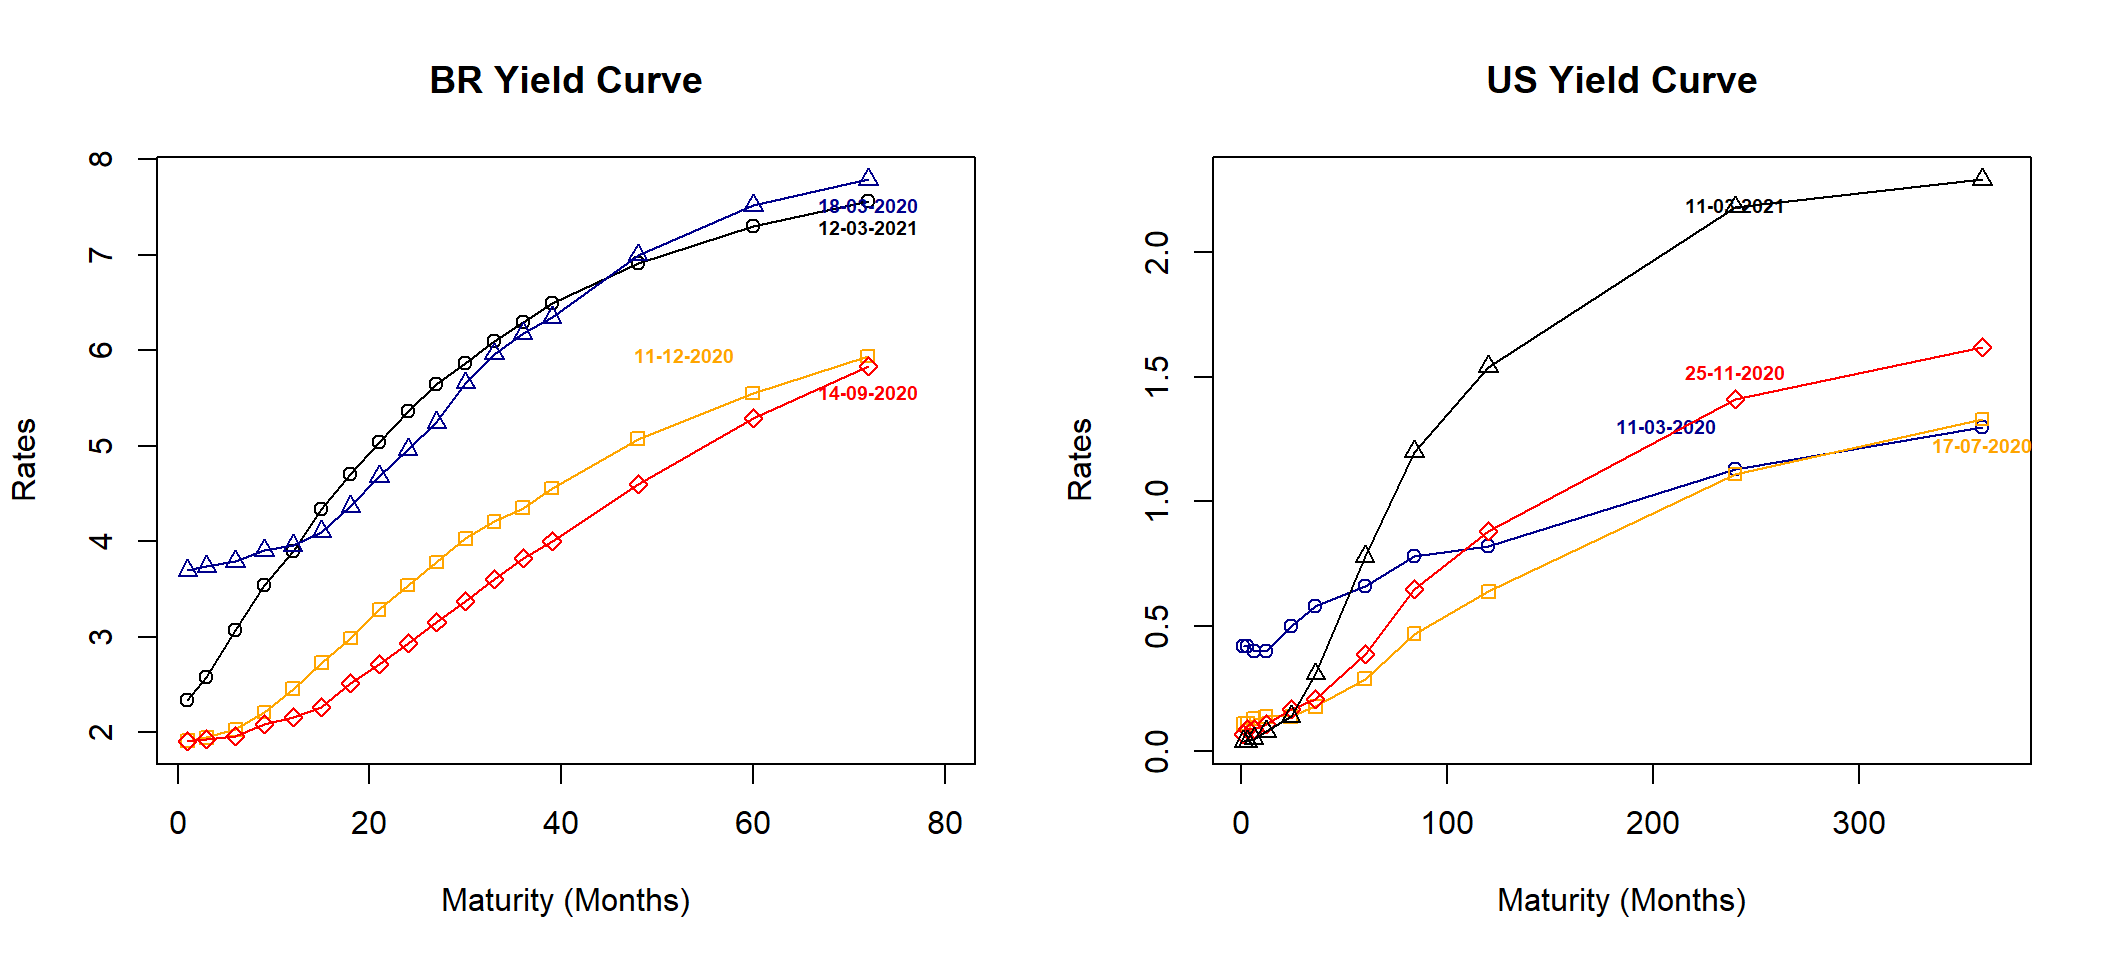
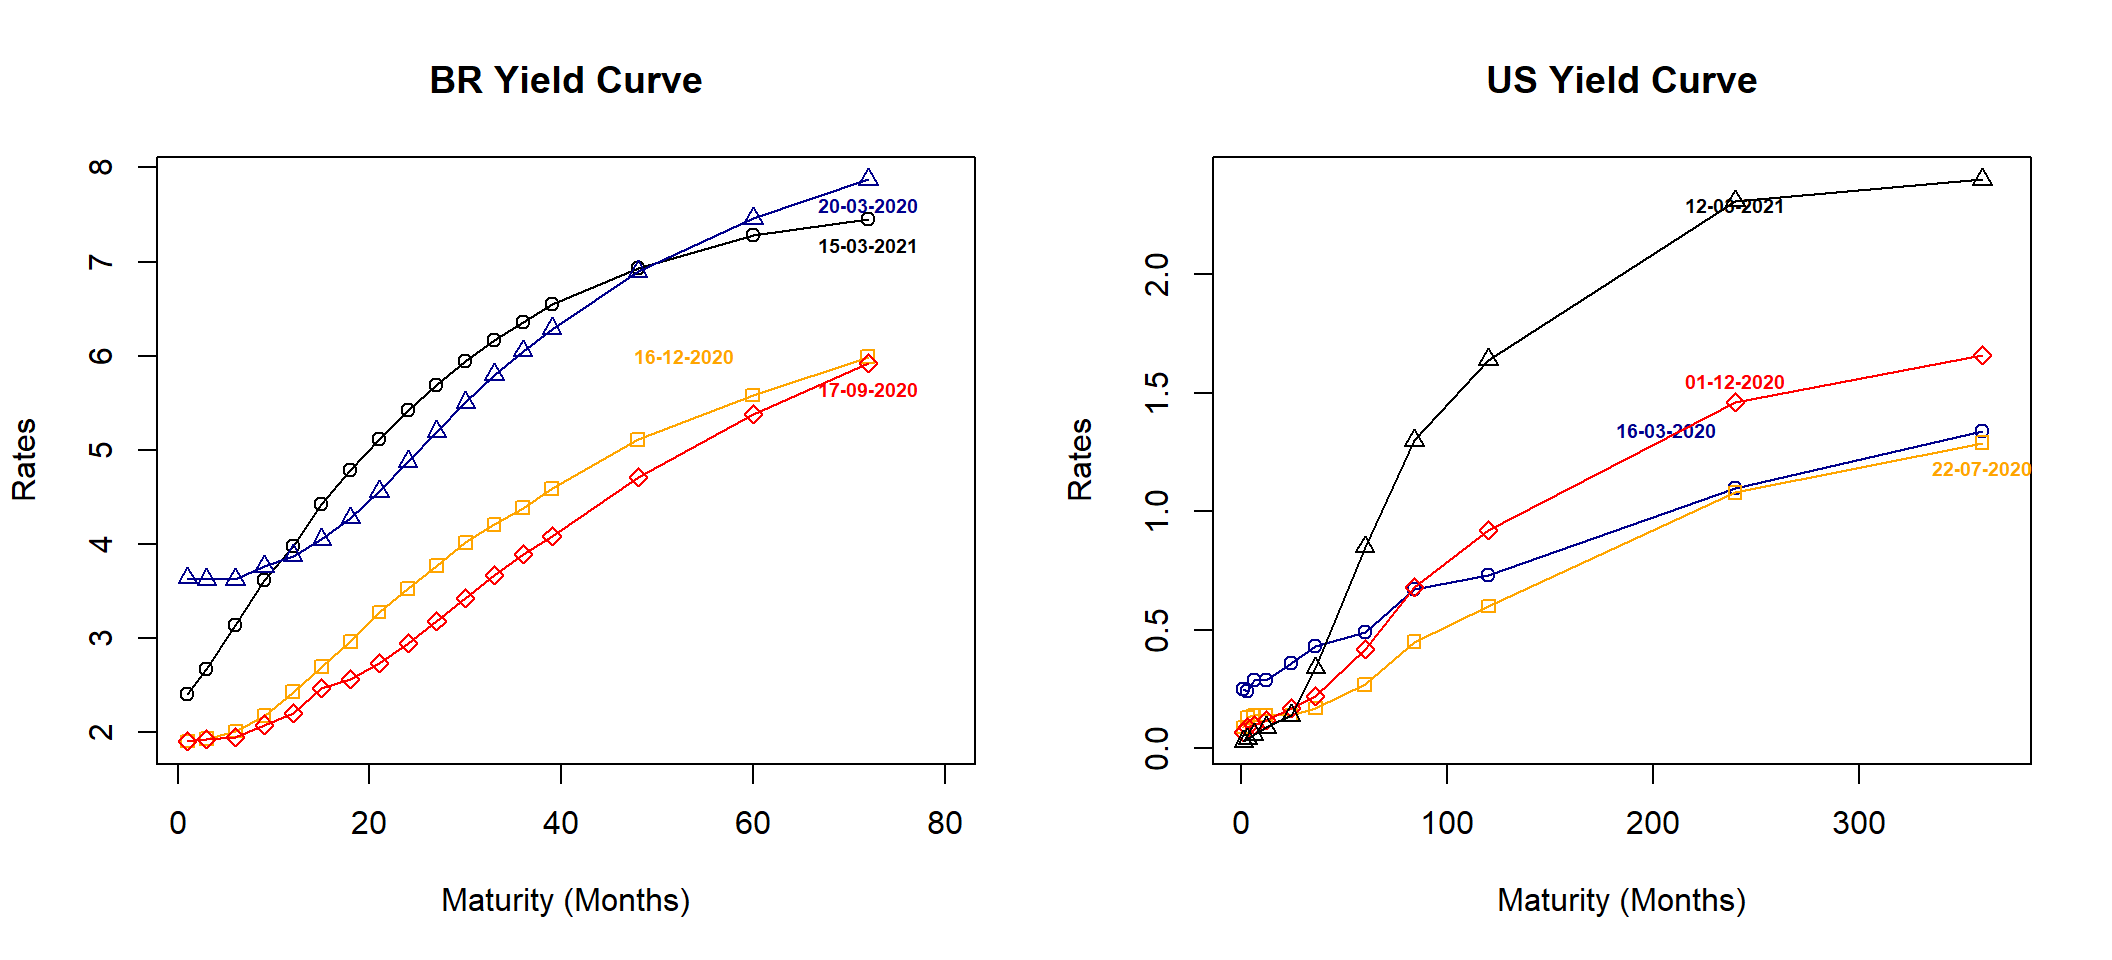
Add files via upload

diff --git a/index.html b/index.html
@@ -326,7 +326,7 @@ $(document).ready(function () {
 
 
 <h1 class="title toc-ignore">Yield Curves of BR, US, CN, and RU</h1>
-<h4 class="date">13/03/2021</h4>
+<h4 class="date">16/03/2021</h4>
 
 </div>
 
